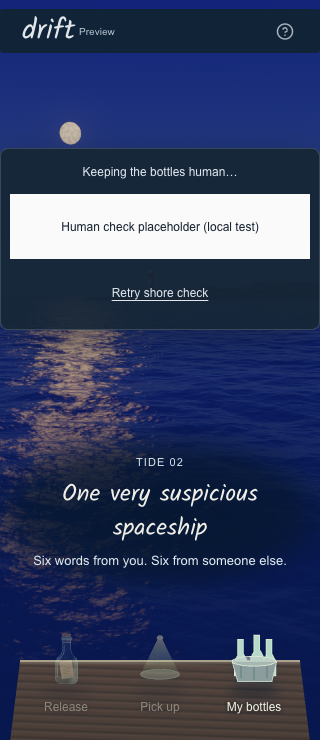
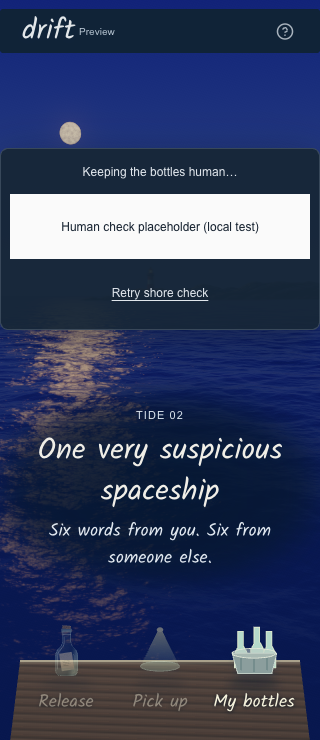
Enlarge gameplay instructions and separate ending metadata

diff --git a/apps/web/src/natural.css b/apps/web/src/natural.css
@@ -905,3 +905,60 @@ input:focus-visible {
     overflow-y: auto;
   }
 }
+
+/* Put the invitation in the same handwriting as the notes, at reading size. */
+.sea-world .daily-tide h2 {
+  font-size: 30px;
+  line-height: 1.35;
+}
+.sea-world .daily-tide > p:not(.tide-status) {
+  font: 400 18px/1.5 var(--letter-hand);
+}
+.sea-world .dock-action {
+  font: 400 18px/1.35 var(--letter-hand);
+}
+.sea-world .writing-desk h1 {
+  font: 400 23px/1.45 var(--letter-hand);
+}
+.sea-world .word-feedback {
+  font-size: 14px;
+}
+.sea-world .invitation-actions > p,
+.sea-world .pass-it-on p {
+  font-size: 16px;
+  line-height: 1.6;
+}
+.sea-world .ending-preview {
+  display: grid;
+  grid-template-columns: minmax(0, 1fr) auto;
+  row-gap: 10px;
+}
+.sea-world .ending-preview > span {
+  grid-column: 1;
+  grid-row: 1;
+  min-width: 0;
+}
+.sea-world .ending-preview > small {
+  display: flex;
+  flex-wrap: wrap;
+  align-items: center;
+  gap: 8px 14px;
+  grid-column: 1;
+  grid-row: 2;
+  max-width: none;
+  white-space: normal;
+}
+.sea-world .ending-preview > small time,
+.sea-world .ending-preview .thanks-label {
+  white-space: nowrap;
+}
+.sea-world .ending-preview > svg {
+  grid-column: 2;
+  grid-row: 1 / span 2;
+  align-self: center;
+}
+@media (max-height: 480px) {
+  .sea-world .daily-tide h2 {
+    font-size: 25px;
+  }
+}

diff --git a/apps/web/src/main.tsx b/apps/web/src/main.tsx
@@ -1801,10 +1801,12 @@ function App() {
                                 <Heart size={12} aria-hidden="true" /> Thanks received
                               </span>
                             )}
-                            {new Date(pair.createdMs).toLocaleDateString([], {
-                              month: 'short',
-                              day: 'numeric',
-                            })}
+                            <time dateTime={new Date(pair.createdMs).toISOString()}>
+                              {new Date(pair.createdMs).toLocaleDateString([], {
+                                month: 'short',
+                                day: 'numeric',
+                              })}
+                            </time>
                           </small>
                           <ArrowUpRight size={16} />
                         </button>

diff --git a/README.md b/README.md
@@ -14,7 +14,7 @@ The build uses React 19, TypeScript, Vite 8 and SpacetimeDB 2.13. One shared dai
 
 The full-screen sea uses the locally bundled MIT-licensed Noniv WebGPU FFT engine. The team-approved AI coast artwork provides the responsive fallback, and its transparent lighthouse/headland sits over the simulated water. The bottle is original SVG, the dock is CSS, and paper uses a real credited photograph. Pause and reduced motion remain supported. See [asset sources](docs/asset-sources.md). The shore now shows the shared daily tide/theme and the six-word premise; the note opens over the same sea. The current pickup ritual supports deliberate pointer shakes alongside tap/keyboard opening, with explicit opt-in phone motion, an off control and reduced-motion support. Browser sensor checks are emulated; physical phones remain unverified.
 
-**Live checkpoint:** Frontend `a3ee14b` is live with sensor-startup recovery, a compact illustration-failure notice and current Privacy text ([release proof](docs/evidence/motion-failure-release.json)). The game includes [QR bottle invitations](docs/evidence/qr-invitation-release.json), [daily-turn clarity and unfinished-note resumption](docs/evidence/daily-clarity-release.json), and [illustrated exchanges](docs/evidence/illustration-release.json). The additive Maincloud upgrade preserved all compared existing records ([readback](docs/evidence/scene-upgrade-hosted.json)). Artwork queues after a new ending within the existing app budget; opening old postcards does not automatically backfill art. Full-quality ocean, author withdrawal, private thanks and exact history navigation are retained. There are 122 server checks, 45 unit tests and feature checks in Chrome/WebKit. Browser sensor/failure states and stories are synthetic; scene samples are teammate-recorded provider outputs. A newly generated hosted illustrated exchange and physical-phone sharing remain unverified.
+**Live checkpoint:** Frontend `a3ee14b` is live with sensor-startup recovery, a compact illustration-failure notice and current Privacy text ([release proof](docs/evidence/motion-failure-release.json)). The game includes [QR bottle invitations](docs/evidence/qr-invitation-release.json), [daily-turn clarity and unfinished-note resumption](docs/evidence/daily-clarity-release.json), and [illustrated exchanges](docs/evidence/illustration-release.json). The additive Maincloud upgrade preserved all compared existing records ([readback](docs/evidence/scene-upgrade-hosted.json)). Artwork queues after a new ending within the existing app budget; opening old postcards does not automatically backfill art. Full-quality ocean, author withdrawal, private thanks and exact history navigation are retained. There are 122 server checks, 45 unit tests and feature checks in Chrome/WebKit. Browser sensor/failure states and stories are synthetic; scene samples are teammate-recorded provider outputs. A newly shared [hosted illustrated postcard was observed](docs/evidence/hosted-illustration-observation.json); physical-phone sharing remains unverified.
 
 Figma Make/Slides and Mana Bottle Kitchen have actual [workflow artifacts](docs/workflow-checkpoint.md). The team handles submission writing. The [final-push priorities](docs/final-twelve-hour-product-priorities.md) separate current organizer guidance, sponsor criteria and product inferences. Original data-preserving migration details remain in [migration evidence](docs/letter-migration.md).
 

diff --git a/docs/team-progress.md b/docs/team-progress.md
@@ -242,3 +242,10 @@ The user authorizes status posts and project-related replies in the Calhacks gro
 - A controlled thirty-postcard shelf repeated 120 date-format operations across 2.3 seconds of parent clock ticks. Memoizing the immutable postcard view reduces that count to zero for unchanged cards. New cards, changed story text and received thanks still appear in the projected live-update check. This measures repeated formatting work, not FPS, GPU load or physical-phone speed. The full-quality sea is untouched.
 - Seven real local private-thanks checks and eleven Chrome letter checks pass after the change, including focused drafts, live arrivals, private receipt handling and actual PNG download. App build and script typecheck pass. No new provider call or backend update.
 - New authorized group feedback requests larger/distinctive essential instructions, separation of the thanks/date footer, discovery of all endings for co-writers and visible public upvotes. These are next after this tested shelf patch. The owner directly requested thumbs-up read receipts; the three product requests have verified selected reactions. No private chat transcript is stored here.
+
+## 2026-10-25 06:08 UTC — team typography feedback tested
+
+- Essential daily instructions and dock labels are larger and use the existing handwritten note typeface. Writing prompts, word-count feedback and invitation instructions also have clearer reading sizes. No new font download or sea rendering change.
+- Fixed the reported ending-list footer: received thanks and date now have their own metadata row, visible gaps and wrapping, with a separate time element. The complete ending keeps the wider first row rather than competing with a tiny side column.
+- Chrome/WebKit layout checks cover 1440px desktop, 390px phone, 320px narrow phone and 740px short landscape. A real local two-writer thank-you, unopened marker and date remain separate; title/dock placement, no-overflow and selected accessibility checks pass. Six existing human-check layout checks pass, with verification still enforced. Build/script types pass. Browser stories and device dimensions are synthetic, not physical phones.
+- Read and replied to current group requests, with verified thumbs-up read receipts. All-ending discovery, public vote counts and soft low-effort feedback are the next product tasks. A new shared hosted postcard was observed rendering its illustration; its real story/screenshot stays outside Git. No new paid evaluation or provider dispatch from these probes.
